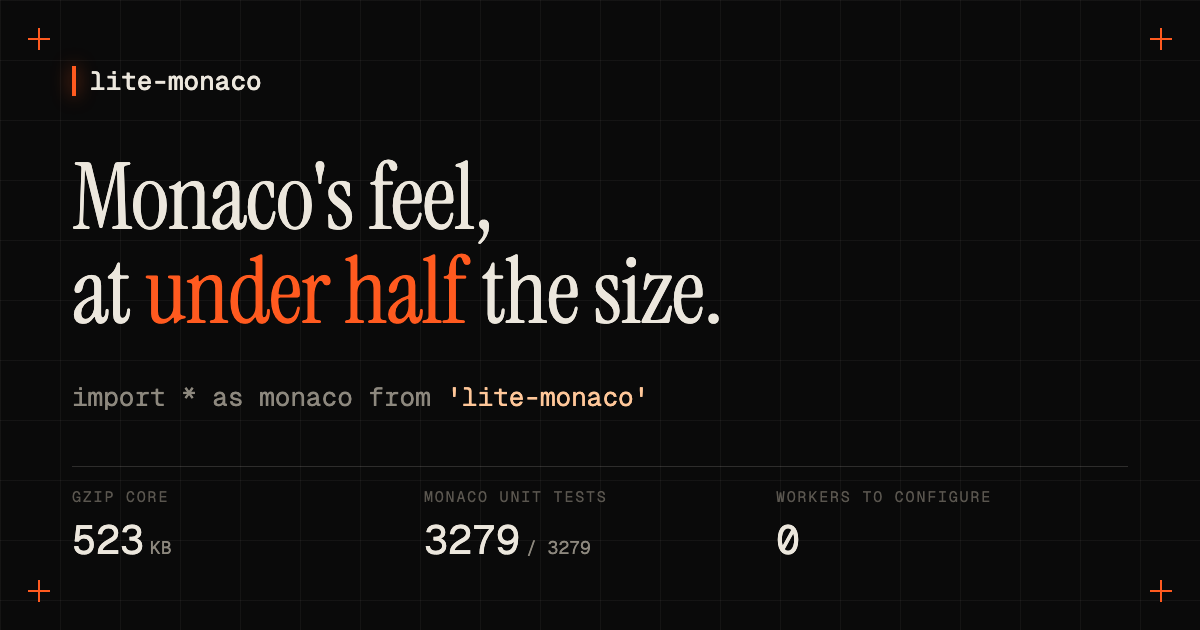
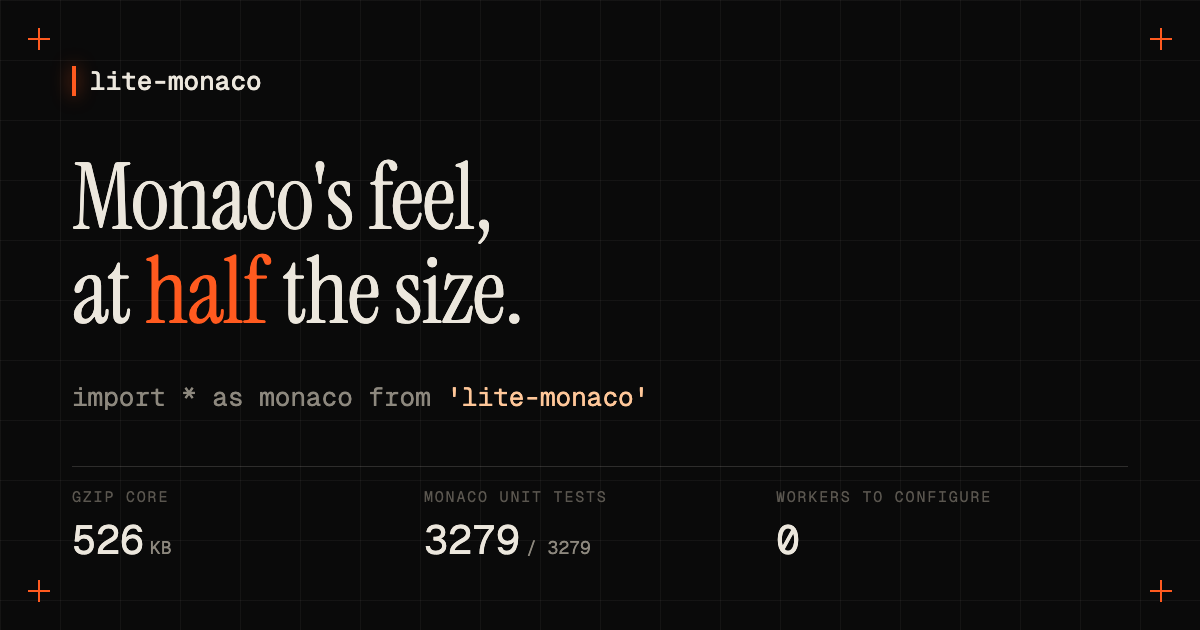
Size claims measured the fair way: both sides with code splitting, counting what loads before the editor shows. monaco-editor 0.55.1 is editor.main 962 KB + editor.worker 88 KB = 1050 KB (its 81 languages, 158 KB, load on demand); lite-monaco is 526 KB. The old 1201 KB bundled editor.main as one fil

Changed region(s): [[0.1233, 0.3921, 0.6167, 0.5127], [0.0925, 0.8444, 0.1233, 0.8746]]

diff --git a/site/index.html b/site/index.html
@@ -4,9 +4,9 @@
 <meta charset="utf-8">
 <meta name="viewport" content="width=device-width, initial-scale=1">
 <title>lite-monaco — a drop-in monaco-editor alternative, half the size</title>
-<meta name="description" content="A drop-in replacement for monaco-editor: the same API, checked against Monaco's own 3279 unit tests, 523 KB gzip, and no web workers to configure.">
-<meta property="og:title" content="lite-monaco — Monaco's feel at under half the size">
-<meta property="og:description" content="Swap monaco-editor with one import. 3279/3279 of Monaco's unit tests pass, 523 KB gzip core, no workers to configure. The editors on the page are real.">
+<meta name="description" content="A drop-in replacement for monaco-editor: the same API, checked against Monaco's own 3279 unit tests, 526 KB gzip, and no web workers to configure.">
+<meta property="og:title" content="lite-monaco — Monaco's feel at half the size">
+<meta property="og:description" content="Swap monaco-editor with one import. 3279/3279 of Monaco's unit tests pass, 526 KB gzip core, no workers to configure. The editors on the page are real.">
 <link rel="canonical" href="https://lite-monaco.dev/">
 <link rel="alternate" hreflang="en" href="https://lite-monaco.dev/">
 <link rel="alternate" hreflang="zh-CN" href="https://lite-monaco.dev/zh/">
@@ -68,7 +68,7 @@
   </figure>
 
   <div class="hero-body">
-    <h1 class="rise" style="--d:2">Monaco's feel,<br>at <em>under half</em> the size.</h1>
+    <h1 class="rise" style="--d:2">Monaco's feel,<br>at <em>half</em> the size.</h1>
     <div class="hero-side rise" style="--d:3">
       <p class="lede">A drop-in replacement for <code>monaco-editor</code> with the same <code>monaco.editor</code> API. Accepted against Monaco's own <b>3279</b> unit tests, then compared scene by scene with real Monaco in Chromium, Firefox and WebKit.</p>
       <div class="actions">
@@ -133,14 +133,14 @@
 
 <!-- ───────── 02 SIZE ───────── -->
 <section class="sec size" id="size">
-  <div class="sec-rule reveal"><span>02</span><span>Size</span><span class="sec-rule-r">esbuild minify · gzip -9 · measured 2026-11-23</span></div>
+  <div class="sec-rule reveal"><span>02</span><span>Size</span><span class="sec-rule-r">esbuild minify · gzip -9 · measured 2026-11-24</span></div>
   <div class="size-top">
-    <div class="giant reveal" aria-label="523 KB">
-      <b data-count="523">523</b><span>KB<small>gzip, core</small></span>
+    <div class="giant reveal" aria-label="526 KB">
+      <b data-count="526">526</b><span>KB<small>gzip, core</small></span>
     </div>
     <header class="sec-head reveal">
       <h2>Same ruler, <em>same bundler.</em></h2>
-      <p>Both sides go through the same esbuild with the same minify settings, neither includes a highlighter or the TypeScript compiler. monaco-editor also needs its worker to run, so that counts too.</p>
+      <p>Both sides go through the same esbuild with the same minify settings and code splitting, and count what loads before the editor can show. Neither includes a highlighter or the TypeScript compiler. monaco-editor also needs its worker to run, so that counts too.</p>
     </header>
   </div>
 
@@ -148,14 +148,14 @@
     <div class="ruler-scale" aria-hidden="true"><span>0</span><span>300</span><span>600</span><span>900</span><span>1200 KB</span></div>
     <div class="bar-row">
       <span class="bar-label">lite-monaco</span>
-      <div class="bar-track"><i class="seg seg-lite" style="--w:523"><em>523 KB</em></i></div>
+      <div class="bar-track"><i class="seg seg-lite" style="--w:526"><em>526 KB</em></i></div>
     </div>
     <div class="bar-row">
       <span class="bar-label">monaco-editor 0.55.1</span>
-      <div class="bar-track"><i class="seg seg-mon" style="--w:1113"><em>editor.main 1113</em></i><i class="seg seg-mon2" style="--w:88"></i></div>
-      <span class="bar-note">+ editor.worker 88 KB = 1201 KB</span>
+      <div class="bar-track"><i class="seg seg-mon" style="--w:962"><em>editor.main 962</em></i><i class="seg seg-mon2" style="--w:88"></i></div>
+      <span class="bar-note">+ editor.worker 88 KB = 1050 KB</span>
     </div>
-    <p class="ruler-foot">For TypeScript completions and diagnostics both sides need the TypeScript compiler: monaco-editor ships ts.worker (1.54 MB gzip), lite-monaco uses the optional <code>typescript</code> dependency. So neither side counts it. Re-measure with <code>node site/measure.mjs</code>. <a href="/docs/bundle-size/">How it was measured</a>.</p>
+    <p class="ruler-foot">For TypeScript completions and diagnostics both sides need the TypeScript compiler: monaco-editor ships ts.worker (1.54 MB gzip), lite-monaco uses the optional <code>typescript</code> dependency. So neither side counts it, nor what loads later (Monaco's 81 languages, 158 KB; lite-monaco's icon font, 47 KB). Re-measure with <code>node site/measure.mjs</code>. <a href="/docs/bundle-size/">How it was measured</a>.</p>
   </div>
 
   <div class="spec reveal" role="table" aria-label="Side by side">

diff --git a/site/zh/index.html b/site/zh/index.html
@@ -3,10 +3,10 @@
 <head>
 <meta charset="utf-8">
 <meta name="viewport" content="width=device-width, initial-scale=1">
-<title>lite-monaco — Monaco 的手感，不到一半的体积</title>
-<meta name="description" content="lite-monaco 是 monaco-editor 的平替：同名同形的 API，拿 Monaco 自己的 3279 条单元测试当验收，核心 gzip 523 KB。页面上每一个编辑器都在你的浏览器里实时运行。">
-<meta property="og:title" content="lite-monaco — Monaco 的手感，不到一半的体积">
-<meta property="og:description" content="一行 import 换掉 monaco-editor。3279/3279 条 Monaco 单测通过，核心 gzip 523 KB。页面上的编辑器都是真的。">
+<title>lite-monaco — Monaco 的手感，一半的体积</title>
+<meta name="description" content="lite-monaco 是 monaco-editor 的平替：同名同形的 API，拿 Monaco 自己的 3279 条单元测试当验收，核心 gzip 526 KB。页面上每一个编辑器都在你的浏览器里实时运行。">
+<meta property="og:title" content="lite-monaco — Monaco 的手感，一半的体积">
+<meta property="og:description" content="一行 import 换掉 monaco-editor。3279/3279 条 Monaco 单测通过，核心 gzip 526 KB。页面上的编辑器都是真的。">
 <link rel="canonical" href="https://lite-monaco.dev/zh/">
 <link rel="alternate" hreflang="en" href="https://lite-monaco.dev/">
 <link rel="alternate" hreflang="zh-CN" href="https://lite-monaco.dev/zh/">
@@ -66,7 +66,7 @@
   </figure>
 
   <div class="hero-body">
-    <h1 class="rise" style="--d:2">Monaco 的手感，<br><em>不到一半</em>的体积。</h1>
+    <h1 class="rise" style="--d:2">Monaco 的手感，<br><em>一半</em>的体积。</h1>
     <div class="hero-side rise" style="--d:3">
       <p class="lede">同名同形的 <code>monaco.editor</code> API。拿 Monaco 自己的 <b>3279</b> 条单元测试当验收，再在 Chromium、Firefox、WebKit 里和真 Monaco 逐场景比对。</p>
       <div class="actions">
@@ -131,14 +131,14 @@
 
 <!-- ───────── 02 体积 ───────── -->
 <section class="sec size" id="size">
-  <div class="sec-rule reveal"><span>02</span><span>体积</span><span class="sec-rule-r">esbuild 压缩 · gzip -9 · 2026-11-23 实测</span></div>
+  <div class="sec-rule reveal"><span>02</span><span>体积</span><span class="sec-rule-r">esbuild 压缩 · gzip -9 · 2026-11-24 实测</span></div>
   <div class="size-top">
-    <div class="giant reveal" aria-label="523 KB">
-      <b data-count="523">523</b><span>KB<small>gzip，核心</small></span>
+    <div class="giant reveal" aria-label="526 KB">
+      <b data-count="526">526</b><span>KB<small>gzip，核心</small></span>
     </div>
     <header class="sec-head reveal">
       <h2>同一把尺子，<em>同一个打包器。</em></h2>
-      <p>两边都用同一个 esbuild、同样的压缩参数，都不含高亮器和 TypeScript 编译器。monaco-editor 还要配 worker 才能跑，那份也算进去。</p>
+      <p>两边都用同一个 esbuild、同样的压缩参数，都开代码分割，算的是编辑器显示出来之前要加载的部分。都不含高亮器和 TypeScript 编译器。monaco-editor 还要配 worker 才能跑，那份也算进去。</p>
     </header>
   </div>
 
@@ -146,14 +146,14 @@
     <div class="ruler-scale" aria-hidden="true"><span>0</span><span>300</span><span>600</span><span>900</span><span>1200 KB</span></div>
     <div class="bar-row">
       <span class="bar-label">lite-monaco</span>
-      <div class="bar-track"><i class="seg seg-lite" style="--w:523"><em>523 KB</em></i></div>
+      <div class="bar-track"><i class="seg seg-lite" style="--w:526"><em>526 KB</em></i></div>
     </div>
     <div class="bar-row">
       <span class="bar-label">monaco-editor 0.55.1</span>
-      <div class="bar-track"><i class="seg seg-mon" style="--w:1113"><em>editor.main 1113</em></i><i class="seg seg-mon2" style="--w:88"></i></div>
-      <span class="bar-note">+ editor.worker 88 KB = 1201 KB</span>
+      <div class="bar-track"><i class="seg seg-mon" style="--w:962"><em>editor.main 962</em></i><i class="seg seg-mon2" style="--w:88"></i></div>
+      <span class="bar-note">+ editor.worker 88 KB = 1050 KB</span>
     </div>
-    <p class="ruler-foot">要 TypeScript 补全和诊断时，两边都得带 TypeScript 编译器：monaco-editor 是 ts.worker（gzip 1.54 MB），lite-monaco 是可选依赖 <code>typescript</code>。所以这一份两边都不计。重新量：<code>node site/measure.mjs</code>。</p>
+    <p class="ruler-foot">要 TypeScript 补全和诊断时，两边都得带 TypeScript 编译器：monaco-editor 是 ts.worker（gzip 1.54 MB），lite-monaco 是可选依赖 <code>typescript</code>。所以这一份两边都不计；之后才加载的也不计（Monaco 的 81 种语言 158 KB，lite-monaco 的图标字体 47 KB）。重新量：<code>node site/measure.mjs</code>。</p>
   </div>
 
   <div class="spec reveal" role="table" aria-label="规格对照">

diff --git a/templates/vite/src/main.ts b/templates/vite/src/main.ts
@@ -1,7 +1,7 @@
 // The whole setup: one import, no MonacoEnvironment, no worker loader.
 import * as monaco from 'lite-monaco'
 
-const value = `// This is lite-monaco: the monaco-editor API, under half the size.
+const value = `// This is lite-monaco: the monaco-editor API, half the size.
 // Type checking comes from the optional \`typescript\` dependency.
 
 interface User {

diff --git a/README.md b/README.md
@@ -2,7 +2,7 @@
 
 English · [中文](./README.zh-CN.md)
 
-The feel of Monaco at less than half the size.
+The feel of Monaco at half the size.
 
 `lite-monaco` is a drop-in replacement for [monaco-editor](https://github.com/microsoft/monaco-editor): `monaco.editor` and `monaco.languages` have the same names and shapes. Swap one import, and no workers to configure.
 
@@ -10,7 +10,7 @@ The feel of Monaco at less than half the size.
 
 - **The same API**: `editor.create`, `createModel`, `createDiffEditor`, `defineTheme`, `setModelMarkers`, `languages.register*Provider`, Monarch… checked by machine against Monaco 0.55.1's `monaco.d.ts`.
 - **Accepted by Monaco's own tests**: the 3863 unit tests under `src/vs/editor` in the VS Code repo run unchanged; all 3279 that apply pass. The other 584 test VS Code's service layer or renderer internals, and each one has a written reason why it doesn't apply.
-- **Size**: 523 KB gzip for the core (the 47 KB icon font is separate and loads on mount). With the same esbuild minification, monaco-editor's `editor.main` plus `editor.worker` is 1201 KB.
+- **Size**: 526 KB gzip for the core (the 47 KB icon font is separate and loads on mount). With the same esbuild minification and code splitting, monaco-editor loads 962 KB of `editor.main` plus the 88 KB `editor.worker` before an editor shows: 1050 KB.
 - **No workers**: no `MonacoEnvironment.getWorker`, no worker loader in your bundler.
 
 ## Install
@@ -91,12 +91,12 @@ Item-by-item notes and migration steps are in [MIGRATION.md](./MIGRATION.md) (Ch
 
 ## Size
 
-esbuild minified, gzip -9, measured 2026-11-23 (`node site/measure.mjs`); neither side includes a highlighter or the TypeScript compiler:
+esbuild minified with code splitting, gzip -9, measured 2026-11-24 (`node site/measure.mjs`). Counted is what loads before an editor shows; neither side includes a highlighter or the TypeScript compiler:
 
 | | Minified | gzip |
 |---|---|---|
-| lite-monaco (main bundle; the 47 KB icon font is a separate chunk, loaded when the first editor mounts) | 1.68 MB | **523 KB** |
-| monaco-editor 0.55.1 (`editor.main` + `editor.worker`; the codicon.ttf font is also a separate file, not counted here) | 4.30 MB + 0.28 MB | 1113 + 88 KB |
+| lite-monaco (main bundle; the 47 KB icon font is a separate chunk, loaded when the first editor mounts) | 1.68 MB | **526 KB** |
+| monaco-editor 0.55.1 (`editor.main` + `editor.worker`; its 81 languages split off and load on demand, 158 KB; the codicon.ttf font is also a separate file, not counted here) | 3.75 MB + 0.28 MB | 962 + 88 = **1050 KB** |
 
 For TypeScript smarts both sides need the compiler: monaco-editor ships ts.worker (1.54 MB gzip); lite-monaco uses the `typescript` you install.
 

diff --git a/site/docs-src/reduce-monaco-bundle-size.md b/site/docs-src/reduce-monaco-bundle-size.md
@@ -12,12 +12,12 @@ All numbers are gzip -9 of esbuild's minified output, JavaScript only, with code
 
 | Setup | Up front |
 |---|---|
-| `monaco-editor` (`editor.main`) | 962 KB, then 165 KB of languages on demand |
+| `monaco-editor` (`editor.main`) | 962 KB, then 158 KB of languages on demand |
 | `edcore.main`: all features, no languages | 935 KB |
 | `editor.api` + 7 features + JavaScript | 935 KB |
 | `editor.api` + 7 features + Go | 790 KB |
 | `editor.api` alone: no find, suggest or hover | 655 KB |
-| [lite-monaco](/docs/getting-started/): all of the above, diff editor | 523 KB |
+| [lite-monaco](/docs/getting-started/): all of the above, diff editor | 526 KB |
 
 Every monaco-editor row also needs `editor.worker`, another 88 KB; lite-monaco has no worker.
 
@@ -70,7 +70,7 @@ Neither makes Monaco smaller, but both take it off the path to your first paint:
 
 ## 4. Use an editor with the same API that is smaller to begin with
 
-[lite-monaco](/) is a drop-in replacement for monaco-editor: the same `monaco.editor` and `monaco.languages` API, checked against Monaco's own 3279 applicable unit tests. Its core is 523 KB with every feature in the table above and the diff editor, and there is no worker to configure, because it is not built on the VS Code platform layers that make up most of `editor.main`.
+[lite-monaco](/) is a drop-in replacement for monaco-editor: the same `monaco.editor` and `monaco.languages` API, checked against Monaco's own 3279 applicable unit tests. Its core is 526 KB with every feature in the table above and the diff editor, and there is no worker to configure, because it is not built on the VS Code platform layers that make up most of `editor.main`.
 
 ```ts
 // before
@@ -79,4 +79,4 @@ import * as monaco from 'monaco-editor'
 import * as monaco from 'lite-monaco'
 ```
 
-What it changes and what it leaves out is in [Migrating from monaco-editor](/docs/migrate-from-monaco/) and [Differences from Monaco](/docs/differences/). How the 523 KB is measured is in [Bundle size](/docs/bundle-size/).
+What it changes and what it leaves out is in [Migrating from monaco-editor](/docs/migrate-from-monaco/) and [Differences from Monaco](/docs/differences/). How the 526 KB is measured is in [Bundle size](/docs/bundle-size/).

diff --git a/site/docs-src/bundle-size.md b/site/docs-src/bundle-size.md
@@ -1,23 +1,26 @@
 ---
 title: Bundle size compared with monaco-editor
-description: lite-monaco is 523 KB gzip against 1201 KB for monaco-editor 0.55.1 (editor.main plus editor.worker), measured with the same esbuild settings.
+description: lite-monaco is 526 KB gzip against 1050 KB for monaco-editor 0.55.1 (editor.main up front plus editor.worker), both with the same esbuild settings and code splitting.
 ---
 
 # Bundle size compared with monaco-editor
 
-Measured 2026-11-23 with esbuild minification and gzip -9. Neither side includes a highlighter or the TypeScript compiler.
+Measured 2026-11-24 with esbuild minification, code splitting and gzip -9. Counted is what loads before an editor shows. Neither side includes a highlighter or the TypeScript compiler.
 
 | | minified | gzip |
 |---|---|---|
-| lite-monaco (main bundle) | 1.68 MB | **523 KB** |
-| monaco-editor 0.55.1 (`editor.main` + `editor.worker`) | 4.30 MB + 0.28 MB | 1113 + 88 = **1201 KB** |
+| lite-monaco (main bundle) | 1.68 MB | **526 KB** |
+| monaco-editor 0.55.1 (`editor.main` + `editor.worker`) | 3.75 MB + 0.28 MB | 962 + 88 = **1050 KB** |
 
 ## How it is measured
 
 - The same esbuild version and the same minify settings for both.
+- Code splitting on for both, as Vite and webpack do by default. What loads later is not counted: monaco-editor's 81 Monarch languages and its language-service entry points (158 KB), lite-monaco's icon font (47 KB) and its JSON / CSS / HTML glue (7 KB).
 - monaco-editor cannot run without `editor.worker`, so the worker is counted.
 - The icon fonts are left out on both sides: lite-monaco loads its codicon font as a separate chunk when the first editor mounts, and monaco-editor ships `codicon.ttf` as a separate file.
 - To re-measure, clone the repository and run `node site/measure.mjs`.
+
+Until 2026-11-24 this page compared against `editor.main` bundled as a single file, 1113 KB (1201 KB with the worker). That counts the languages Monaco would load on demand, which a splitting bundler does not put up front, so it overstated Monaco by about 150 KB.
 
 ## What is not counted
 
